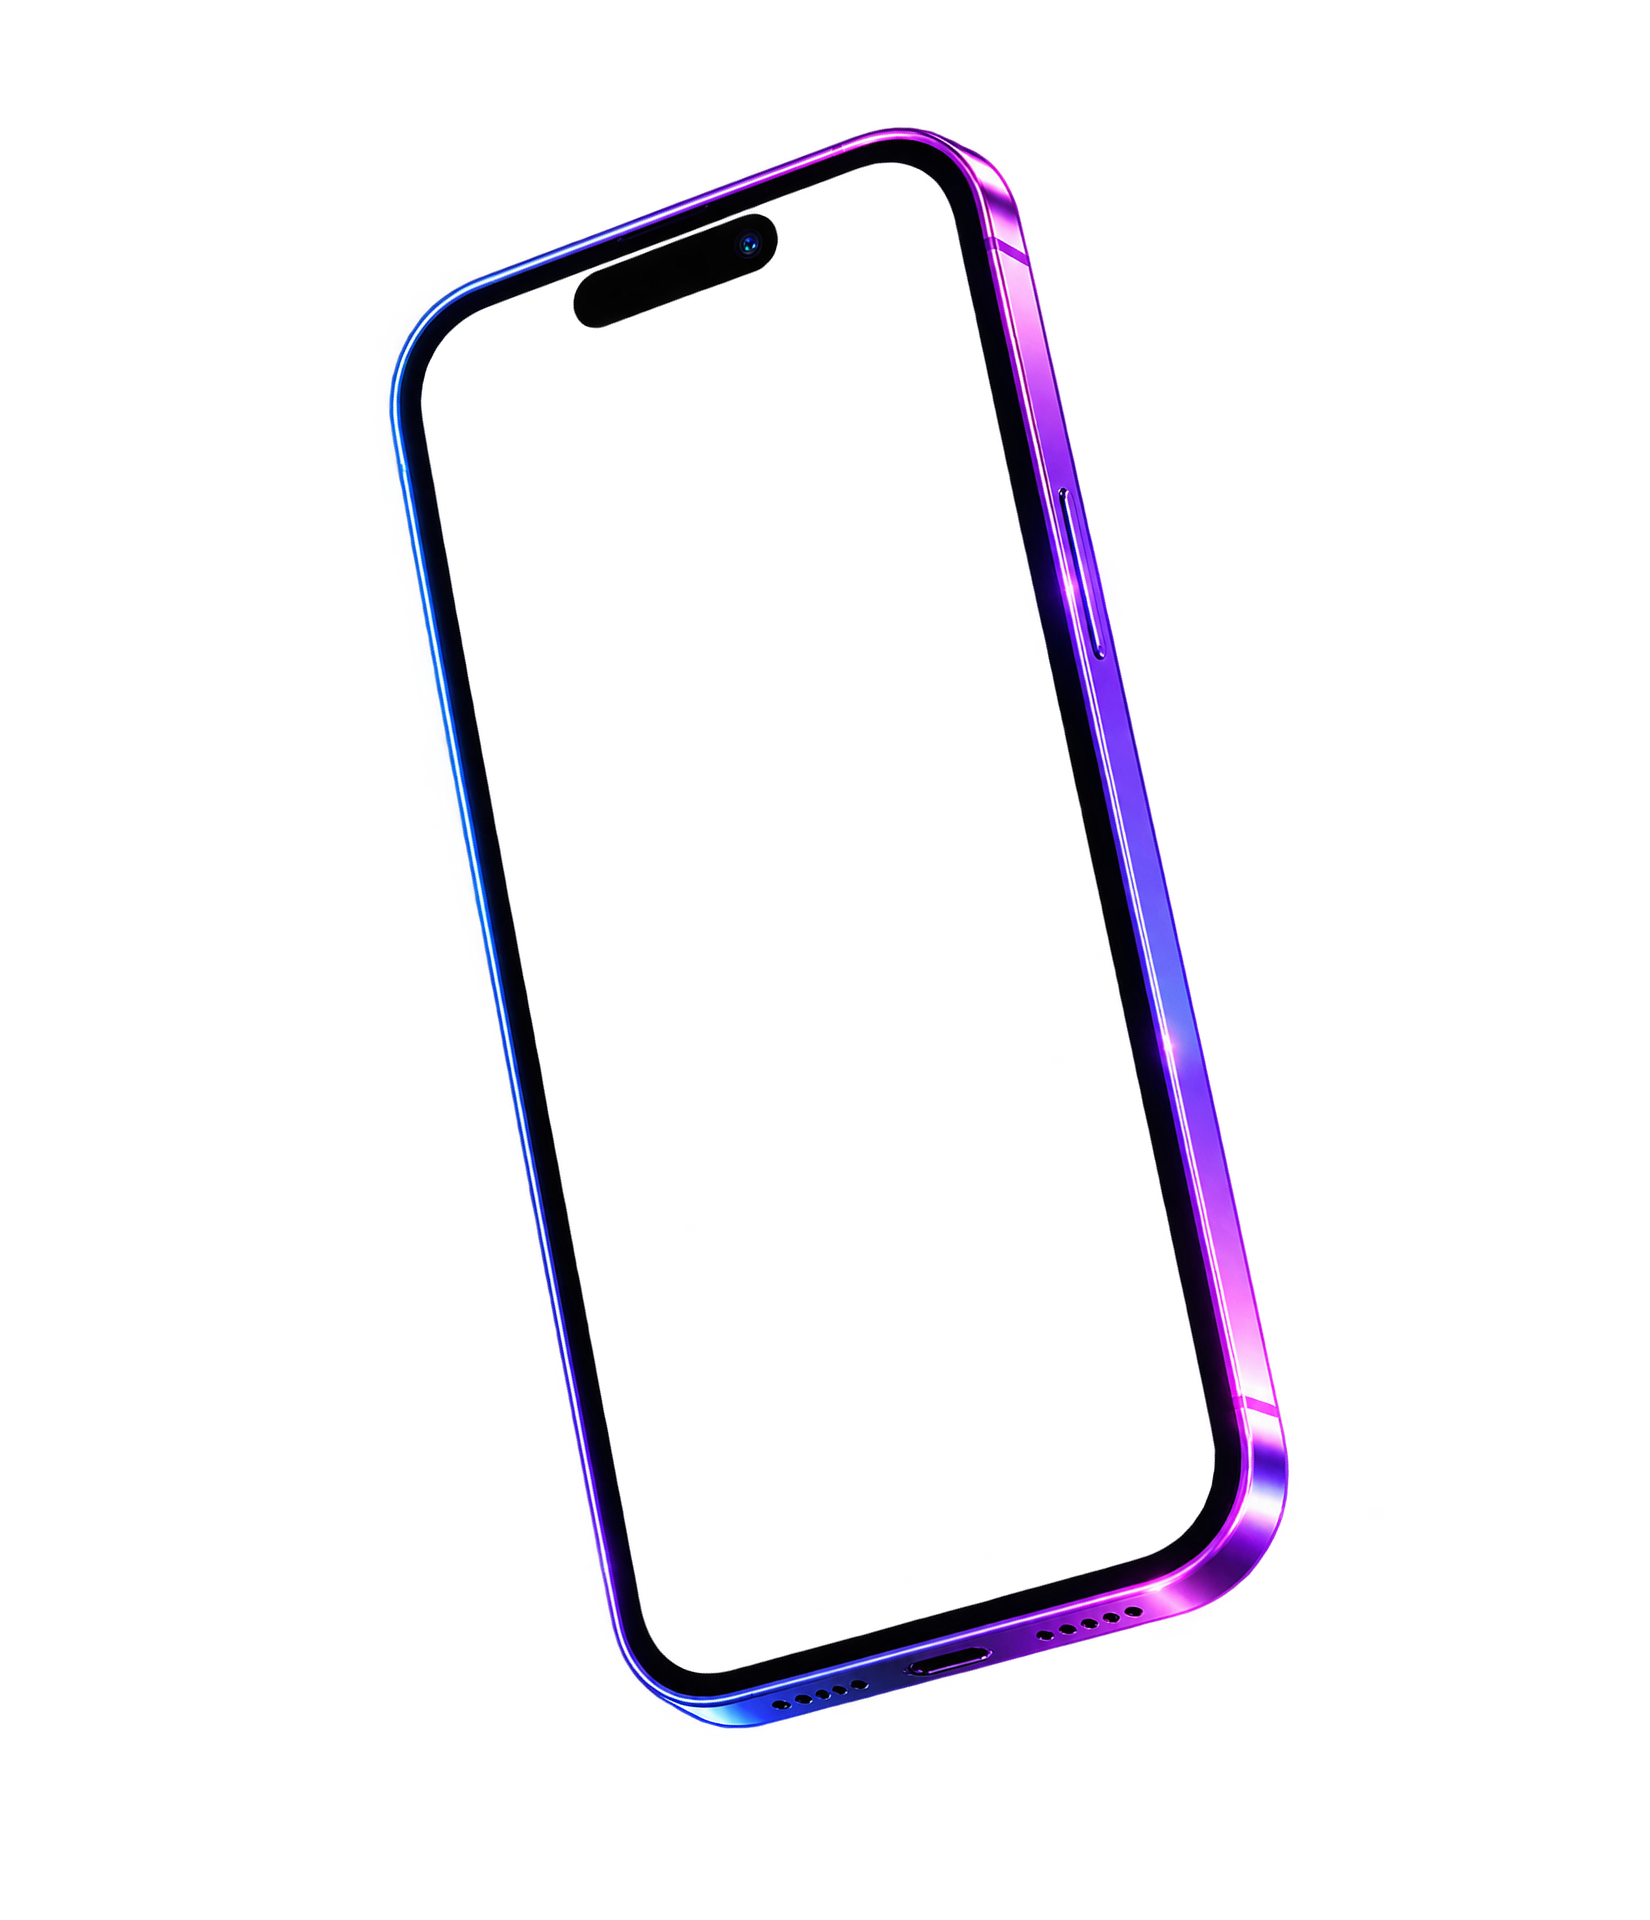
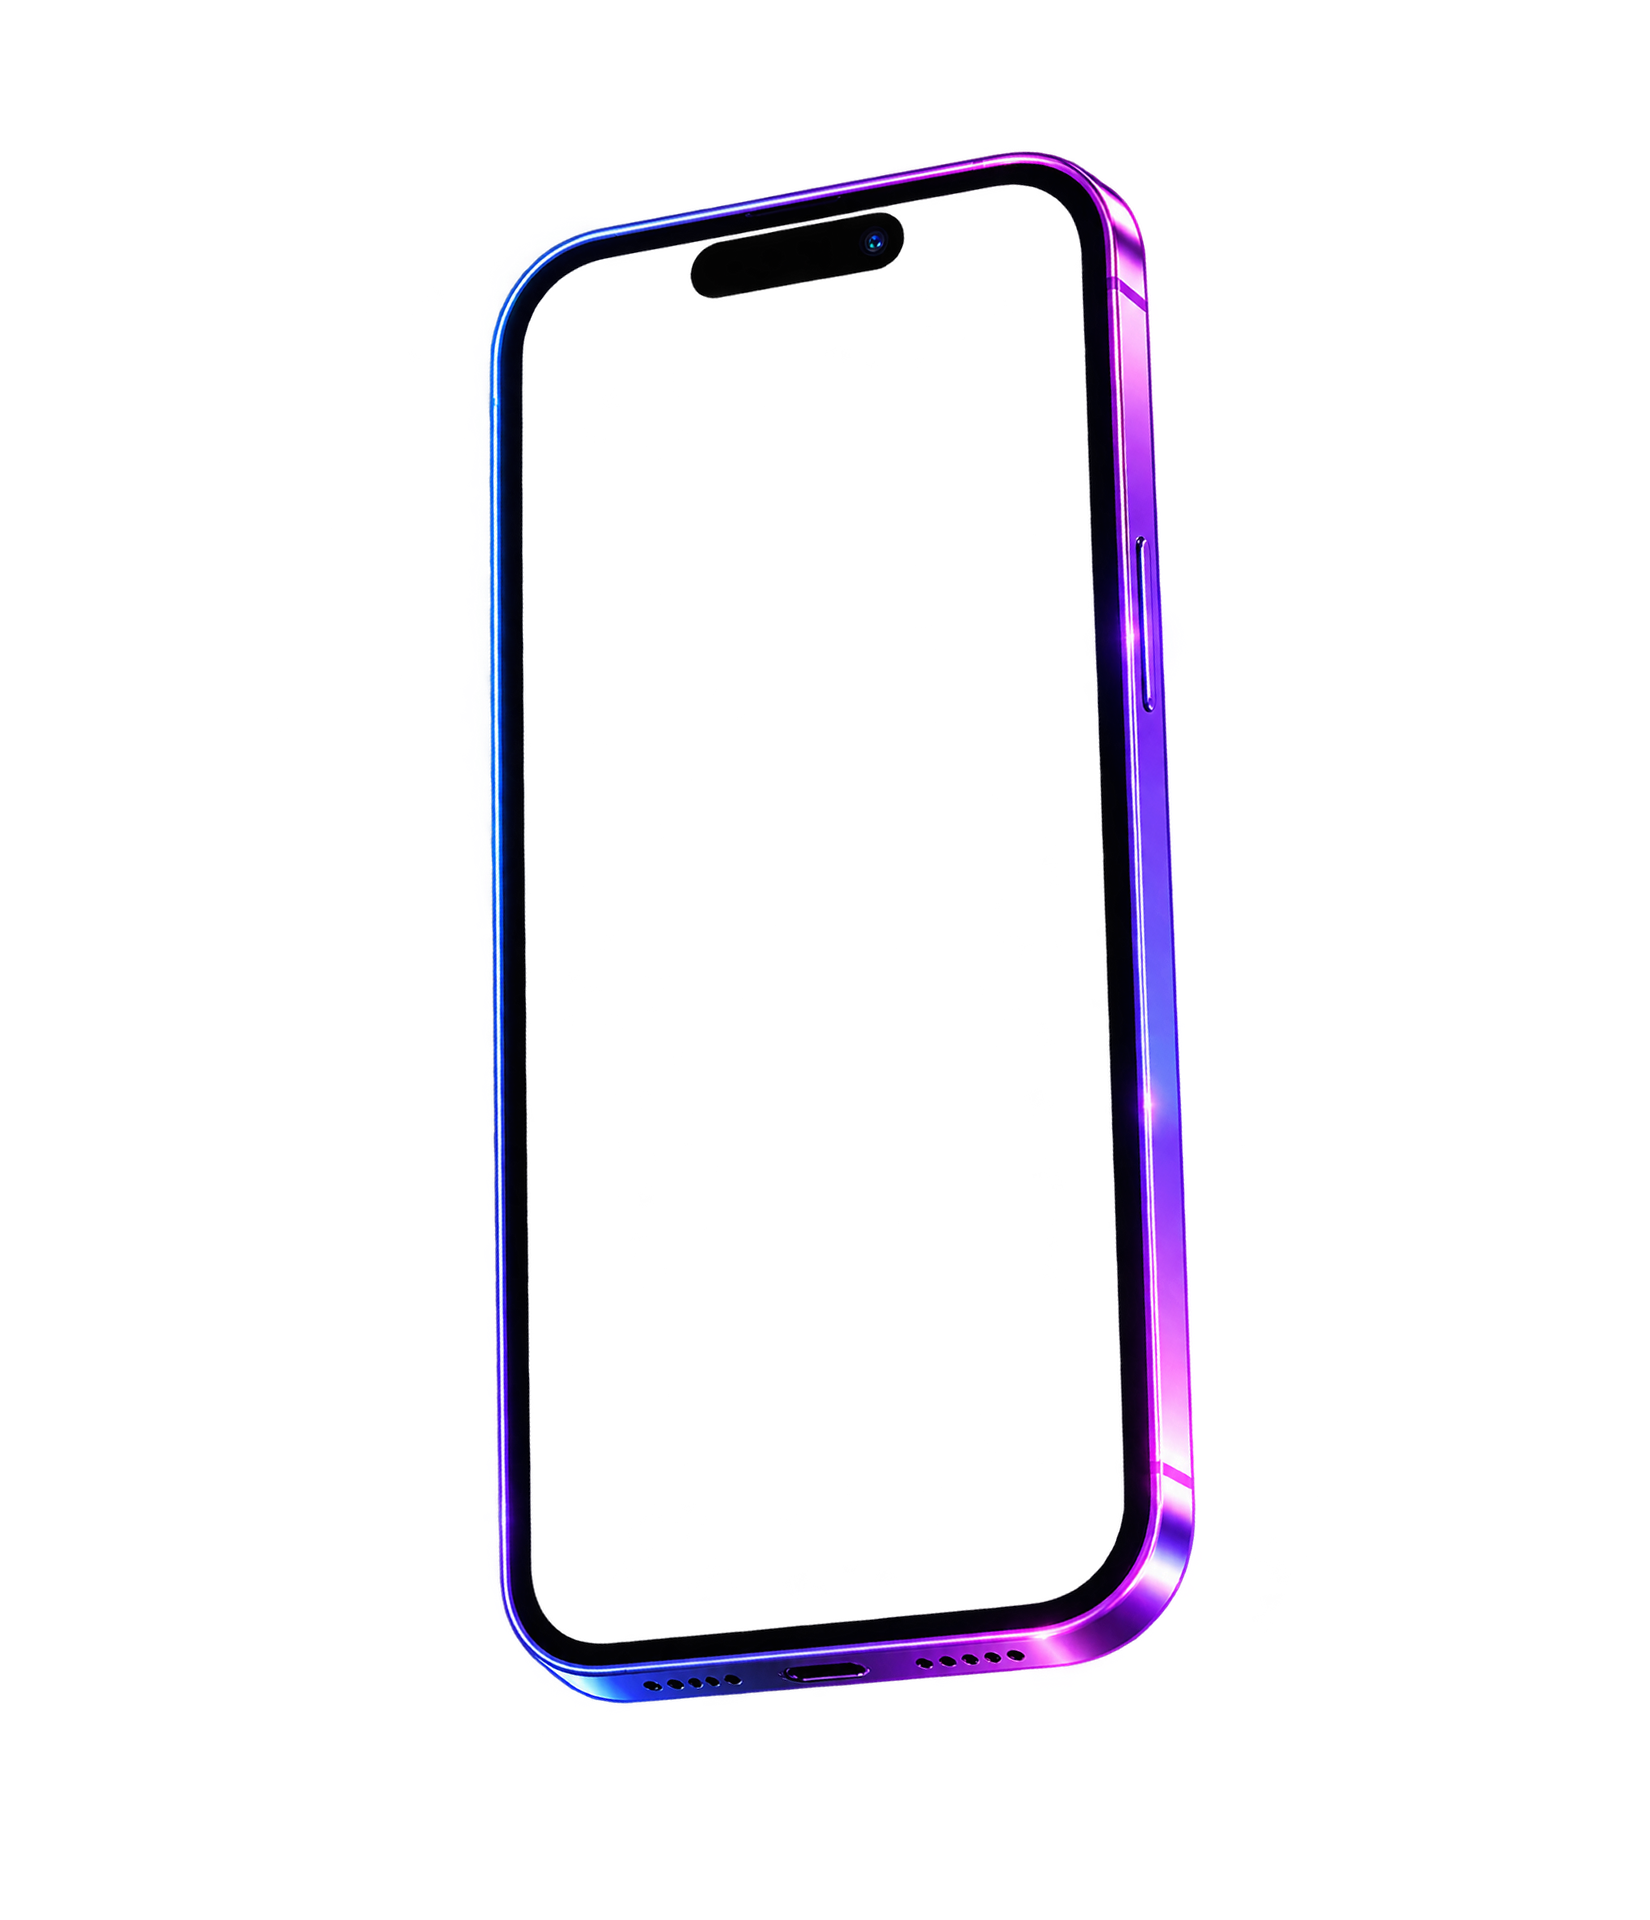
How it works: fit the new purple and teal phones
phone_purple.png and phone_teal.png were replaced with the same model and
pose as phone_red.png (identical screen quad and body), so the three step
phones now share one geometry (STEP_PHONE). The purple phone's extra
4.5deg turn is removed so all three stand at the same angle.

Changed region(s): [[0.2164, 0.0625, 0.8036, 0.9062]]

diff --git a/src/components/phone/geometry.ts b/src/components/phone/geometry.ts
@@ -86,27 +86,11 @@ export const BLUE_FRAME: FrameSpec = {
   ),
 };
 
-/** phone_purple.png — "How it works" step 1 (Plan). */
-export const PURPLE_FRAME: FrameSpec = {
-  src: images.phonePurple,
-  w: 1650,
-  h: 1920,
-  screenH: 940,
-  body: { x: 389, y: 127, w: 900, h: 1602 },
-  matrix: quadMatrix(
-    [
-      [406.2, 337.2],
-      [937.3, 139.0],
-      [1233.2, 1532.0],
-      [654.8, 1690.6],
-    ],
-    940,
-  ),
-};
-
-/** phone_red.png — "How it works" step 2 (Alert). */
-export const RED_FRAME: FrameSpec = {
-  src: images.phoneRed,
+/**
+ * phone_purple.png, phone_red.png and phone_teal.png are the same phone model
+ * in the same pose (different colours), so they share one screen quad.
+ */
+const STEP_PHONE = {
   w: 1650,
   h: 1920,
   screenH: 936,
@@ -122,25 +106,14 @@ export const RED_FRAME: FrameSpec = {
   ),
 };
 
-/** phone_teal.png — "How it works" step 3 (Join); same model as the blue phone. */
-export const TEAL_FRAME: FrameSpec = {
-  src: images.phoneTeal,
-  w: 1650,
-  h: 1920,
-  screenH: 930,
-  body: { x: 396, y: 196, w: 868, h: 1502 },
-  matrix: quadMatrix(
-    [
-      [643.4, 231.8],
-      [1210.9, 227.6],
-      [1012.9, 1637.5],
-      [415.8, 1588.2],
-    ],
-    930,
-  ),
-};
+/** "How it works" step 1 (Plan). */
+export const PURPLE_FRAME: FrameSpec = { src: images.phonePurple, ...STEP_PHONE };
+/** "How it works" step 2 (Alert). */
+export const RED_FRAME: FrameSpec = { src: images.phoneRed, ...STEP_PHONE };
+/** "How it works" step 3 (Join). */
+export const TEAL_FRAME: FrameSpec = { src: images.phoneTeal, ...STEP_PHONE };
 
-/** phone_frame_str.png — front-facing silver phone (WhatsApp demo). */
+/** phone_frame_str.png — front-facing silver phone (WhatsApp flow). */
 export const STRAIGHT_FRAME: FrameSpec = {
   src: images.phoneFrameStraight,
   w: 1024,

diff --git a/src/components/sections/HowItWorks.tsx b/src/components/sections/HowItWorks.tsx
@@ -45,7 +45,7 @@ const STEPS: Step[] = [
 /** Plan, Alert and Join each get their own phone colour. */
 const PHONE_BODY_H = 500;
 const SCREENS = [
-  <FramedPhone key="plan" frame={PURPLE_FRAME} bodyHeight={PHONE_BODY_H} mirror rotate={4.5}>
+  <FramedPhone key="plan" frame={PURPLE_FRAME} bodyHeight={PHONE_BODY_H} mirror>
     <PlanScreen height={PURPLE_FRAME.screenH} />
   </FramedPhone>,
   <FramedPhone key="alert" frame={RED_FRAME} bodyHeight={PHONE_BODY_H} mirror>
